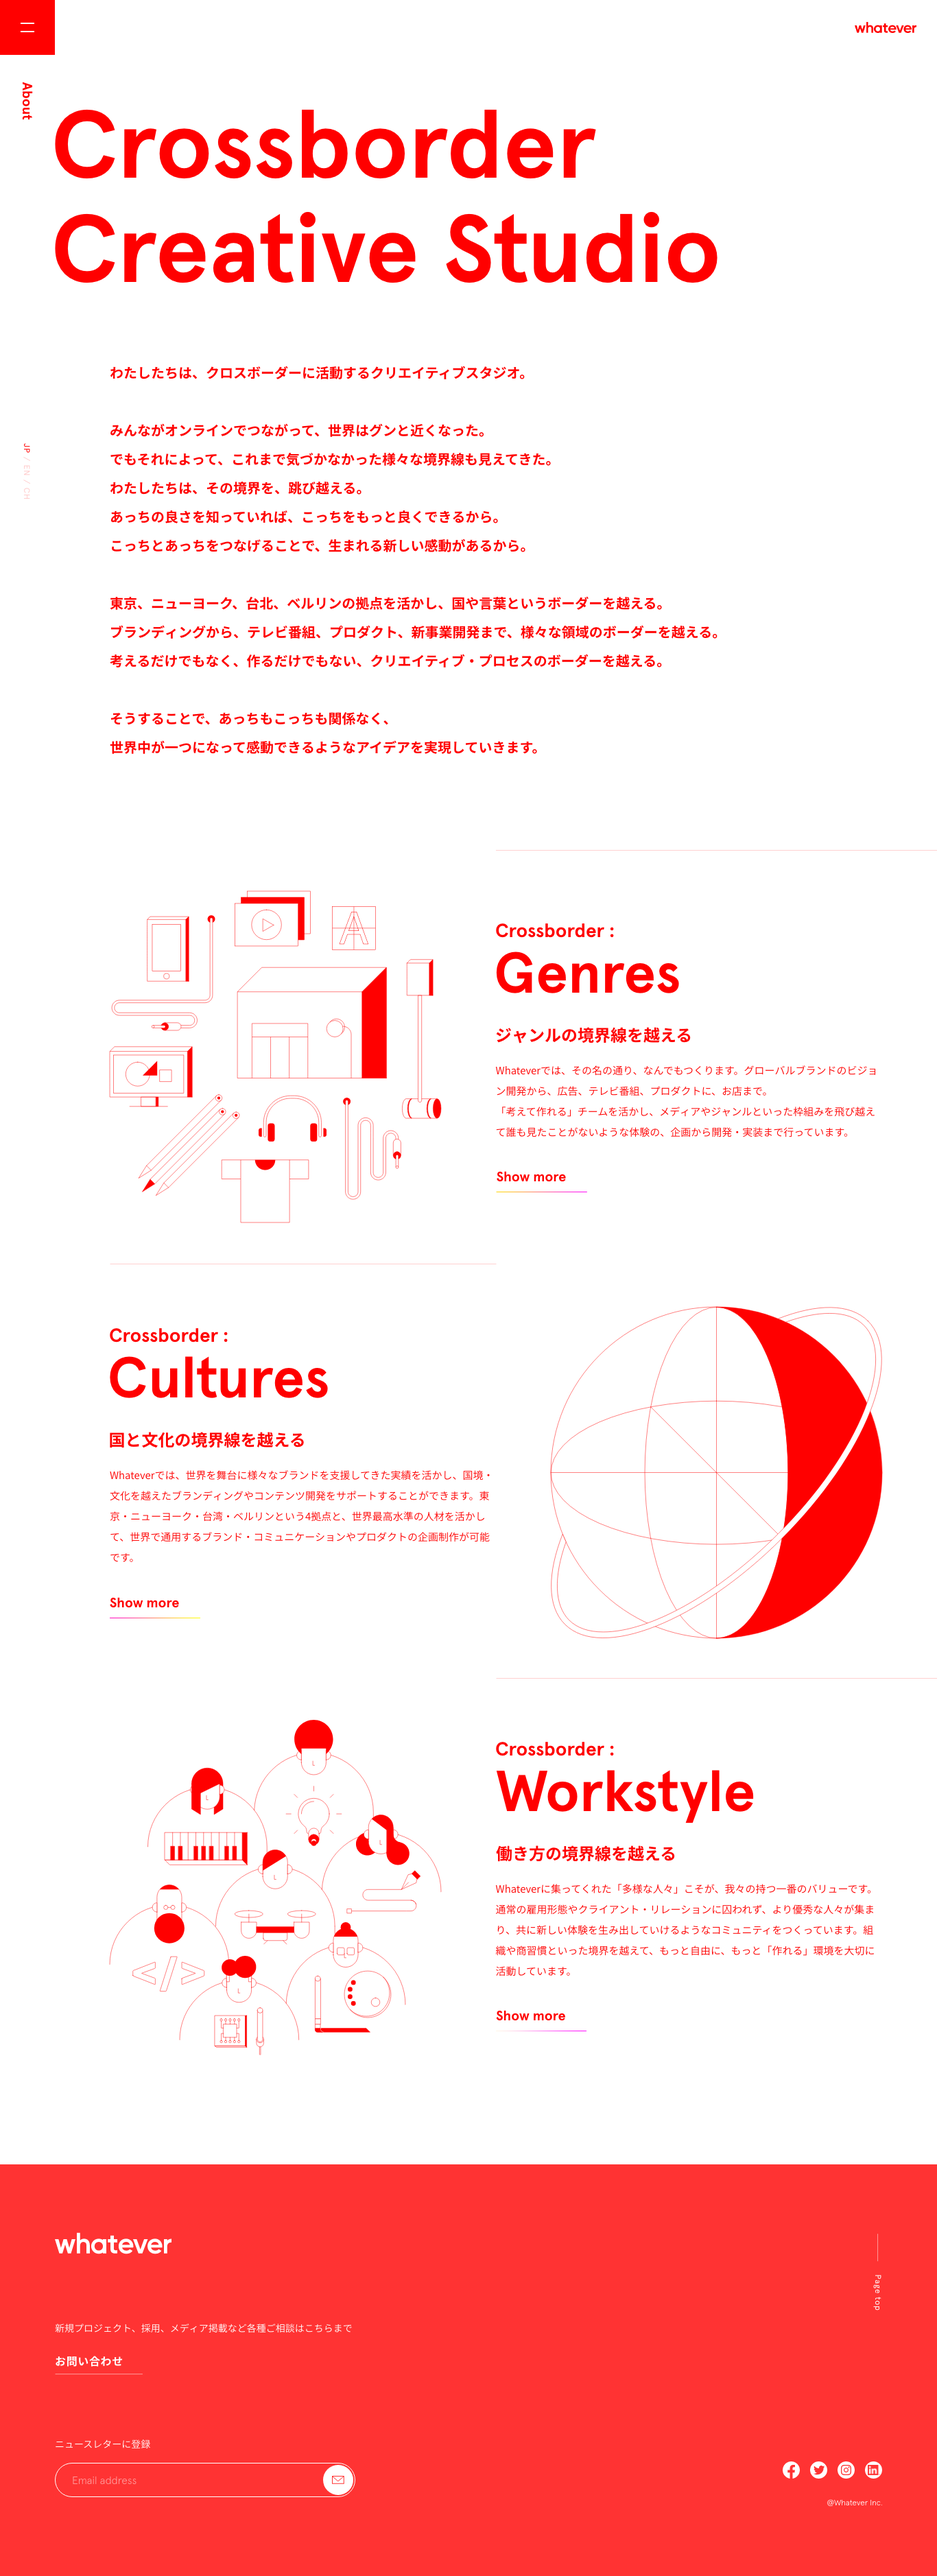
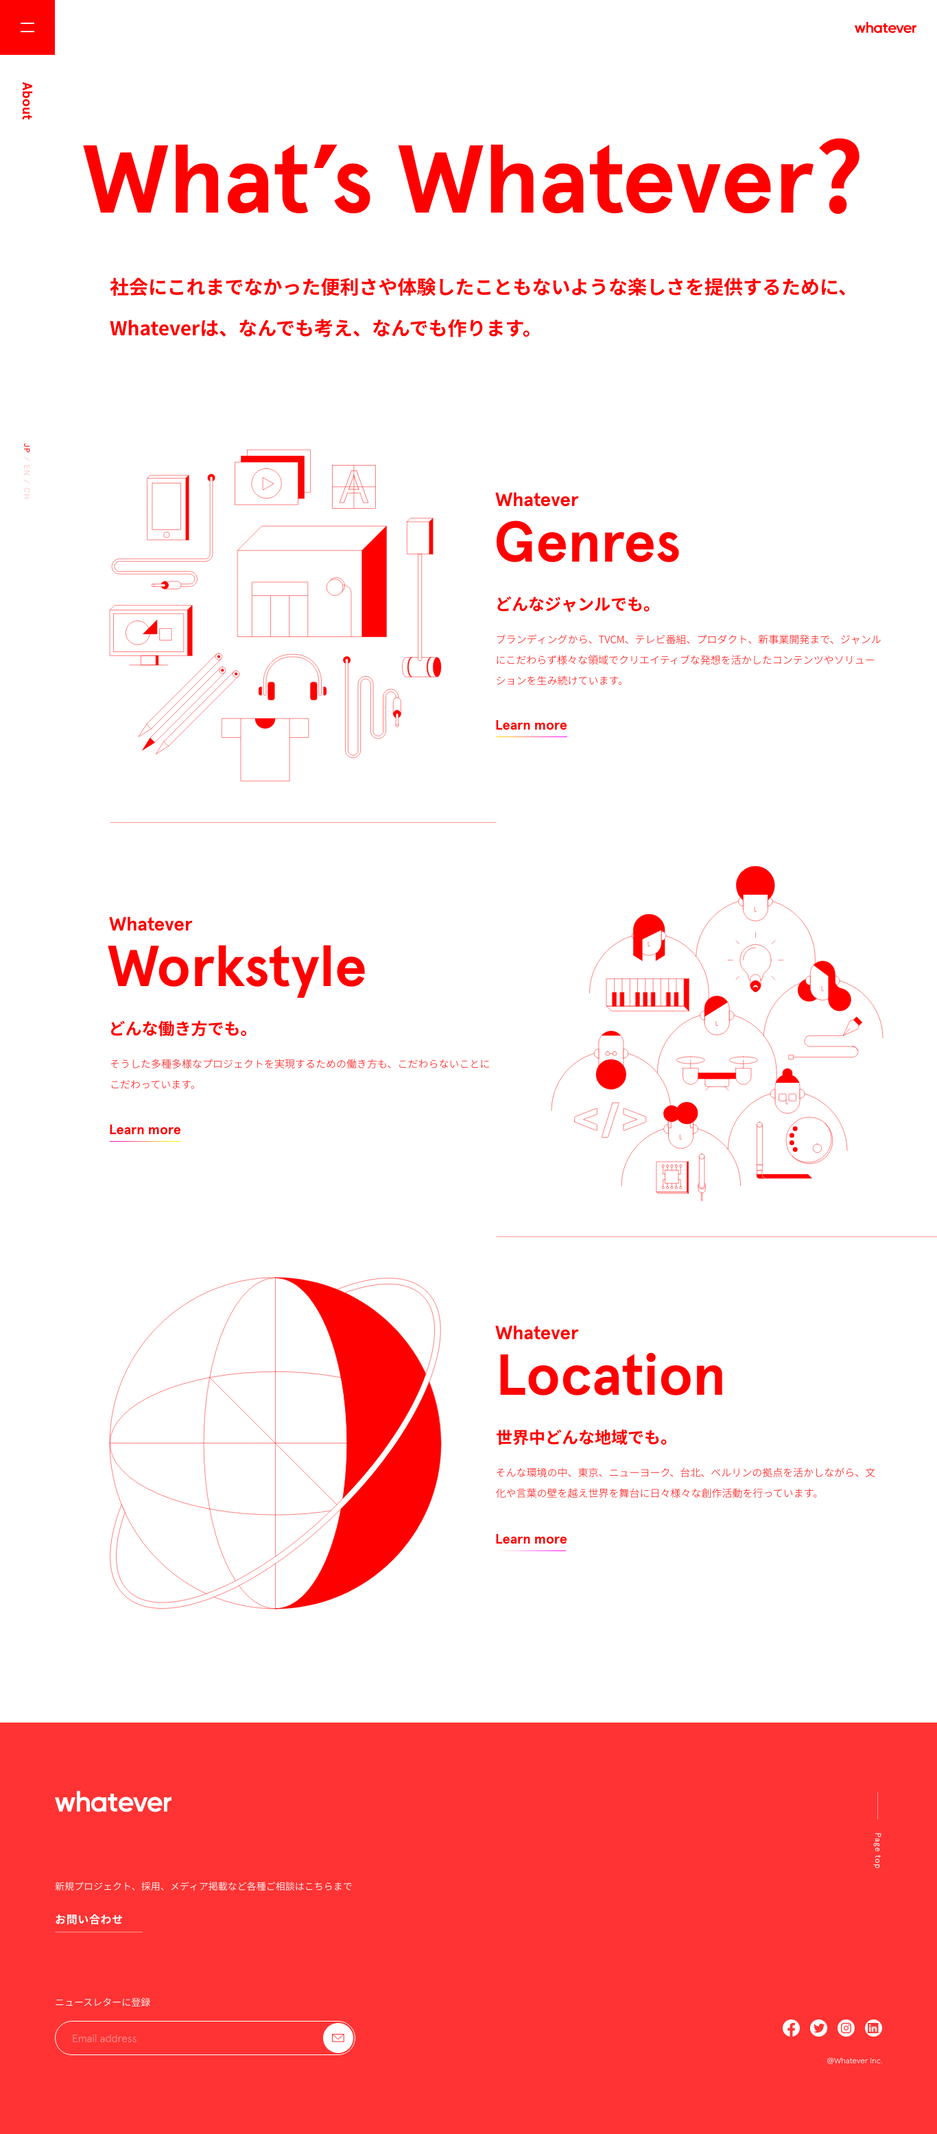
About ja

diff --git a/pages/about.tsx b/pages/about.tsx
@@ -9,11 +9,11 @@ const Genres = () => (
     <div className="inner">
       <div className="image"><GradImg><img src="/about/genres@2x.png" /></GradImg></div>
       <div className="content">
-        <Grad><h3>Crossborder :</h3></Grad>
+        <Grad><h3>Whatever</h3></Grad>
         <Grad><h1>Genres</h1></Grad>
         {t('about_genres_title') != '-' ? <Grad><h2>{t('about_genres_title')}</h2></Grad> : null}
         <Grad><p dangerouslySetInnerHTML={{ __html: t('about_genres_description')?.replace('\n', '<br />') || '' }}></p></Grad>
-        <div className="more"><Grad><Link href="/about/genres"><a>Show more</a></Link></Grad></div>
+        <div className="more"><Grad><Link href="/about/genres"><a>Learn more</a></Link></Grad></div>
       </div>
     </div>
     <style jsx>{`
@@ -21,17 +21,15 @@ const Genres = () => (
         'calc((100vw - 80px) * %s)' % (px / (1366 - 80))
       .genres
         width 100%
-        margin-bottom vwpx(59)
-        min-height vwpx(544)
+        margin-bottom vwpx(60)
       .inner
         display flex
         justify-content space-between
       .image img
         width vwpx(484)
         margin-left vwpx(80)
-        margin-top vwpx(60)
+        margin-top vwpx(43)
       .content
-        border-top 1px solid #D0D0D0
         width vwpx(643)
         padding-top vwpx(104)
       h3
@@ -67,11 +65,7 @@ const Genres = () => (
           border-bottom 1px solid
           background none
           margin-top vwpx(24)
-          margin-right 20px
-          padding-bottom 11px
-          padding-right 30px
-          padding-left 0
-      .en
+          padding-bottom 6px
         h1
           margin-bottom vwpx(5)
         p
@@ -83,25 +77,24 @@ const Genres = () => (
   </div>
 )
 
-const Cultures = () => (
-  <div className={langStyle('cultures')}>
+const Workstyle = () => (
+  <div className={langStyle('workstyle')}>
     <div className="inner">
       <div className="content">
-        <Grad><h3>Crossborder :</h3></Grad>
-        <Grad><h1>Cultures</h1></Grad>
-        {t('about_cultures_title') != '-' ? <Grad><h2>{t('about_cultures_title')}</h2></Grad> : null}
-        <Grad><p dangerouslySetInnerHTML={{ __html: t('about_cultures_description')?.replace('\n', '<br />') || '' }}></p></Grad>
-        <div className="more"><Grad><Link href="/about/cultures"><a>Show more</a></Link></Grad></div>
+        <Grad><h3>Whatever</h3></Grad>
+        <Grad><h1>Workstyle</h1></Grad>
+        {t('about_workstyle_title') != '-' ? <Grad><h2>{t('about_workstyle_title')}</h2></Grad> : null}
+        <Grad><p dangerouslySetInnerHTML={{ __html: t('about_workstyle_description')?.replace('\n', '<br />') || '' }}></p></Grad>
+        <div className="more"><Grad><Link href="/about/workstyle"><a>Learn more</a></Link></Grad></div>
       </div>
-      <div className="image"><GradImg><img src="/about/cultures@2x.png" /></GradImg></div>
+      <div className="image"><GradImg><img src="/about/workstyle@2x.png" /></GradImg></div>
     </div>
     <style jsx>{`
       vwpx(px)
         'calc((100vw - 80px) * %s)' % (px / (1366 - 80))
-      .cultures
+      .workstyle
         width 100%
-        margin-bottom vwpx(58)
-        min-height vwpx(546)
+        margin-bottom vwpx(52)
       .inner
         display flex
         justify-content space-between
@@ -113,7 +106,7 @@ const Cultures = () => (
       .content
         border-top 1px solid #D0D0D0
         width vwpx(564)
-        padding-top vwpx(91)
+        padding-top vwpx(135)
       h3
         display inline-block
         overflow hidden
@@ -148,9 +141,7 @@ const Cultures = () => (
           background none
           margin-top vwpx(25)
           margin-right 20px
-          padding-bottom 11px
-          padding-right 30px
-          padding-left 0
+          padding-bottom 6px
       .en
         .content
           padding-top vwpx(103)
@@ -161,25 +152,24 @@ const Cultures = () => (
   </div>
 )
 
-const Workstyle = () => (
-  <div className={langStyle('workstyle')}>
+const Location = () => (
+  <div className={langStyle('location')}>
     <div className="inner">
-      <div className="image"><GradImg><img src="/about/workstyle@2x.png" /></GradImg></div>
+      <div className="image"><GradImg><img src="/about/cultures@2x.png" /></GradImg></div>
       <div className="content">
-        <Grad><h3>Crossborder :</h3></Grad>
-        <Grad><h1>Workstyle</h1></Grad>
-        {t('about_workstyle_title') != '-' ? <Grad><h2>{t('about_workstyle_title')}</h2></Grad> : null}
-        <Grad><p dangerouslySetInnerHTML={{ __html: t('about_workstyle_description')?.replace('\n', '<br />') || '' }}></p></Grad>
-        <div className="more"><Grad><Link href="/about/workstyle"><a>Show more</a></Link></Grad></div>
+        <Grad><h3>Whatever</h3></Grad>
+        <Grad><h1>Location</h1></Grad>
+        {t('about_location_title') != '-' ? <Grad><h2>{t('about_location_title')}</h2></Grad> : null}
+        <Grad><p dangerouslySetInnerHTML={{ __html: t('about_location_description')?.replace('\n', '<br />') || '' }}></p></Grad>
+        <div className="more"><Grad><Link href="/about/location"><a>Learn more</a></Link></Grad></div>
       </div>
     </div>
     <style jsx>{`
       vwpx(px)
         'calc((100vw - 80px) * %s)' % (px / (1366 - 80))
-      .workstyle
+      .location
         width 100%
-        margin-bottom vwpx(159)
-        min-height vwpx(550)
+        margin-bottom vwpx(165)
       .inner
         display flex
         justify-content space-between
@@ -190,7 +180,7 @@ const Workstyle = () => (
       .content
         border-top 1px solid #D0D0D0
         width vwpx(643)
-        padding-top vwpx(90)
+        padding-top vwpx(128)
       h3
         display inline-block
         overflow hidden
@@ -224,9 +214,7 @@ const Workstyle = () => (
           background none
           margin-top vwpx(24)
           margin-right 20px
-          padding-bottom 11px
-          padding-right 30px
-          padding-left 0
+          padding-bottom 7px
       .en
         .content
           padding-top vwpx(152)
@@ -241,8 +229,7 @@ const AboutPage = () => (
   <Layout title="About" side="About">
     <div className={langStyle()}>
       <div className="head">
-        <Grad><h1>Crossborder</h1></Grad>
-        <Grad><h1>Creative Studio</h1></Grad>
+        <Grad><h1>What’s Whatever<span className="q">?</span></h1></Grad>
       </div>
       <div className="text">
         {t('about_statement')?.split('\n\n').map((p, i) => (
@@ -256,16 +243,16 @@ const AboutPage = () => (
     </div>
 
     <Genres />
-    <Cultures />
     <Workstyle />
+    <Location />
 
     <style jsx>{`
       vwpx(px)
         'calc((100vw - 80px) * %s)' % (px / (1366 - 80))
       .head
-        margin-top vwpx(63)
-        margin-bottom vwpx(87)
-        margin-left vwpx(-6)
+        margin-top vwpx(93)
+        margin-bottom vwpx(57)
+        margin-left vwpx(40)
         font-size 0
         h1
           margin 0
@@ -273,12 +260,14 @@ const AboutPage = () => (
           font-size vwpx(140)
           line-height vwpx(152)
           overflow hidden
+          .q
+            font-family 'Noto Sans JP'
       .text
         margin-left vwpx(80)
-        margin-bottom vwpx(117)
-        font-size vwpx(20)
+        margin-bottom vwpx(87)
+        font-size vwpx(28)
         font-weight bold
-        line-height vwpx(23)
+        line-height vwpx(37)
         >div.p
           margin 0
           margin-bottom vwpx(42)

diff --git a/components/Layout.tsx b/components/Layout.tsx
@@ -20,7 +20,7 @@ type Props = {
 const Layout = ({ children, footer, title = '', side = '', backto = '', showHeader = true }: Props) => {
   const templateStyle: { [prop: string]: string } = {}
   if (useTemplate) {
-    templateStyle.backgroundImage = `url(/_/Top_1366_${useRouter().locale!}.png)`
+    templateStyle.backgroundImage = `url(/_/About_index_${useRouter().locale!}.png)`
   }
   return (
     <div>
